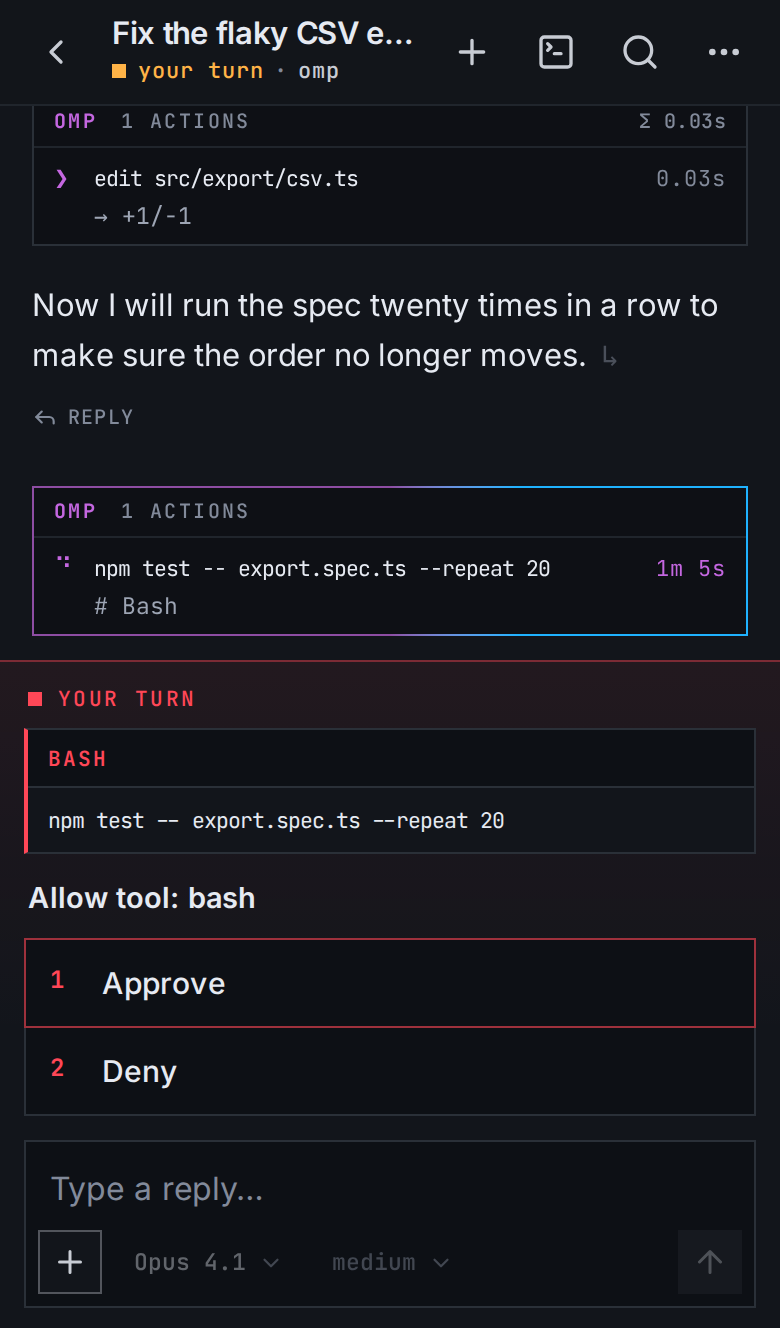
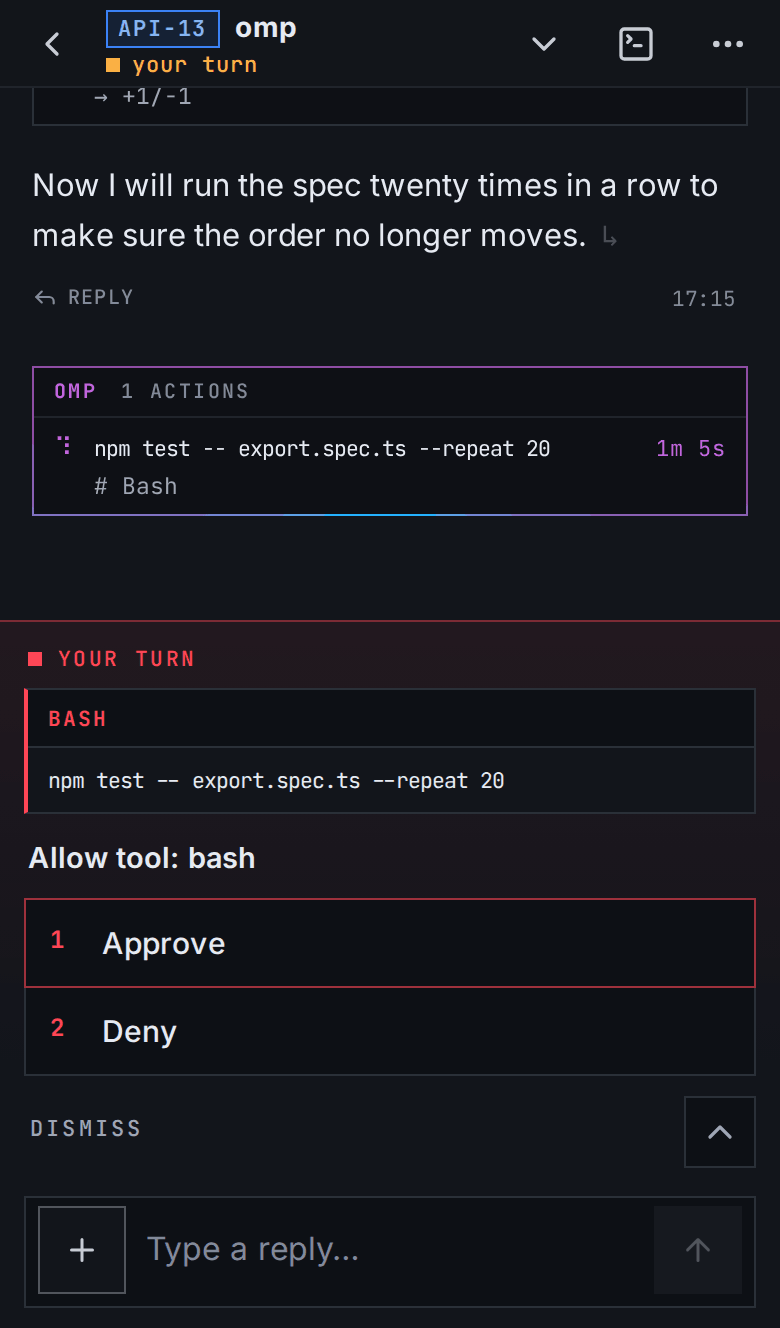
WHR-611: Refresh the docs screenshots from the demo build: current look with coloured project badges (#1110)
* WHR-611: Refresh the docs screenshots from the demo build, with coloured project badges

Retaken from npm run build:demo at 1440x900 and iPhone 13 (2x), palette PNGs.
Shown in the README and next to the project colour setting.

* WHR-611: Keep the README under its size limit: screenshots stay in the docs

---------

diff --git a/docs/project-management.md b/docs/project-management.md
@@ -190,6 +190,9 @@ its message under the field and keeps what you typed.
   The color, picked from a small palette, is the project's key badge everywhere:
   its coordinator row and conversation header, board cards, the task sheet, its
   task agents' headers and *Tasks to review*.
+
+  <img src="screenshots/home-phone.png" width="260" alt="Home on a phone: the acme-api coordinator with its blue API badge and the acme-web coordinator with its violet WEB badge; task badges WEB-7, WEB-8 and API-13 take their project's color. Fictional demo data.">
+
 - **Coordinator name**: what the project's coordinator is called after its key badge,
   in its sidebar row, its conversation header and what names it (notifications,
   decisions, proposals). Empty: the project's name, which follows a rename.
